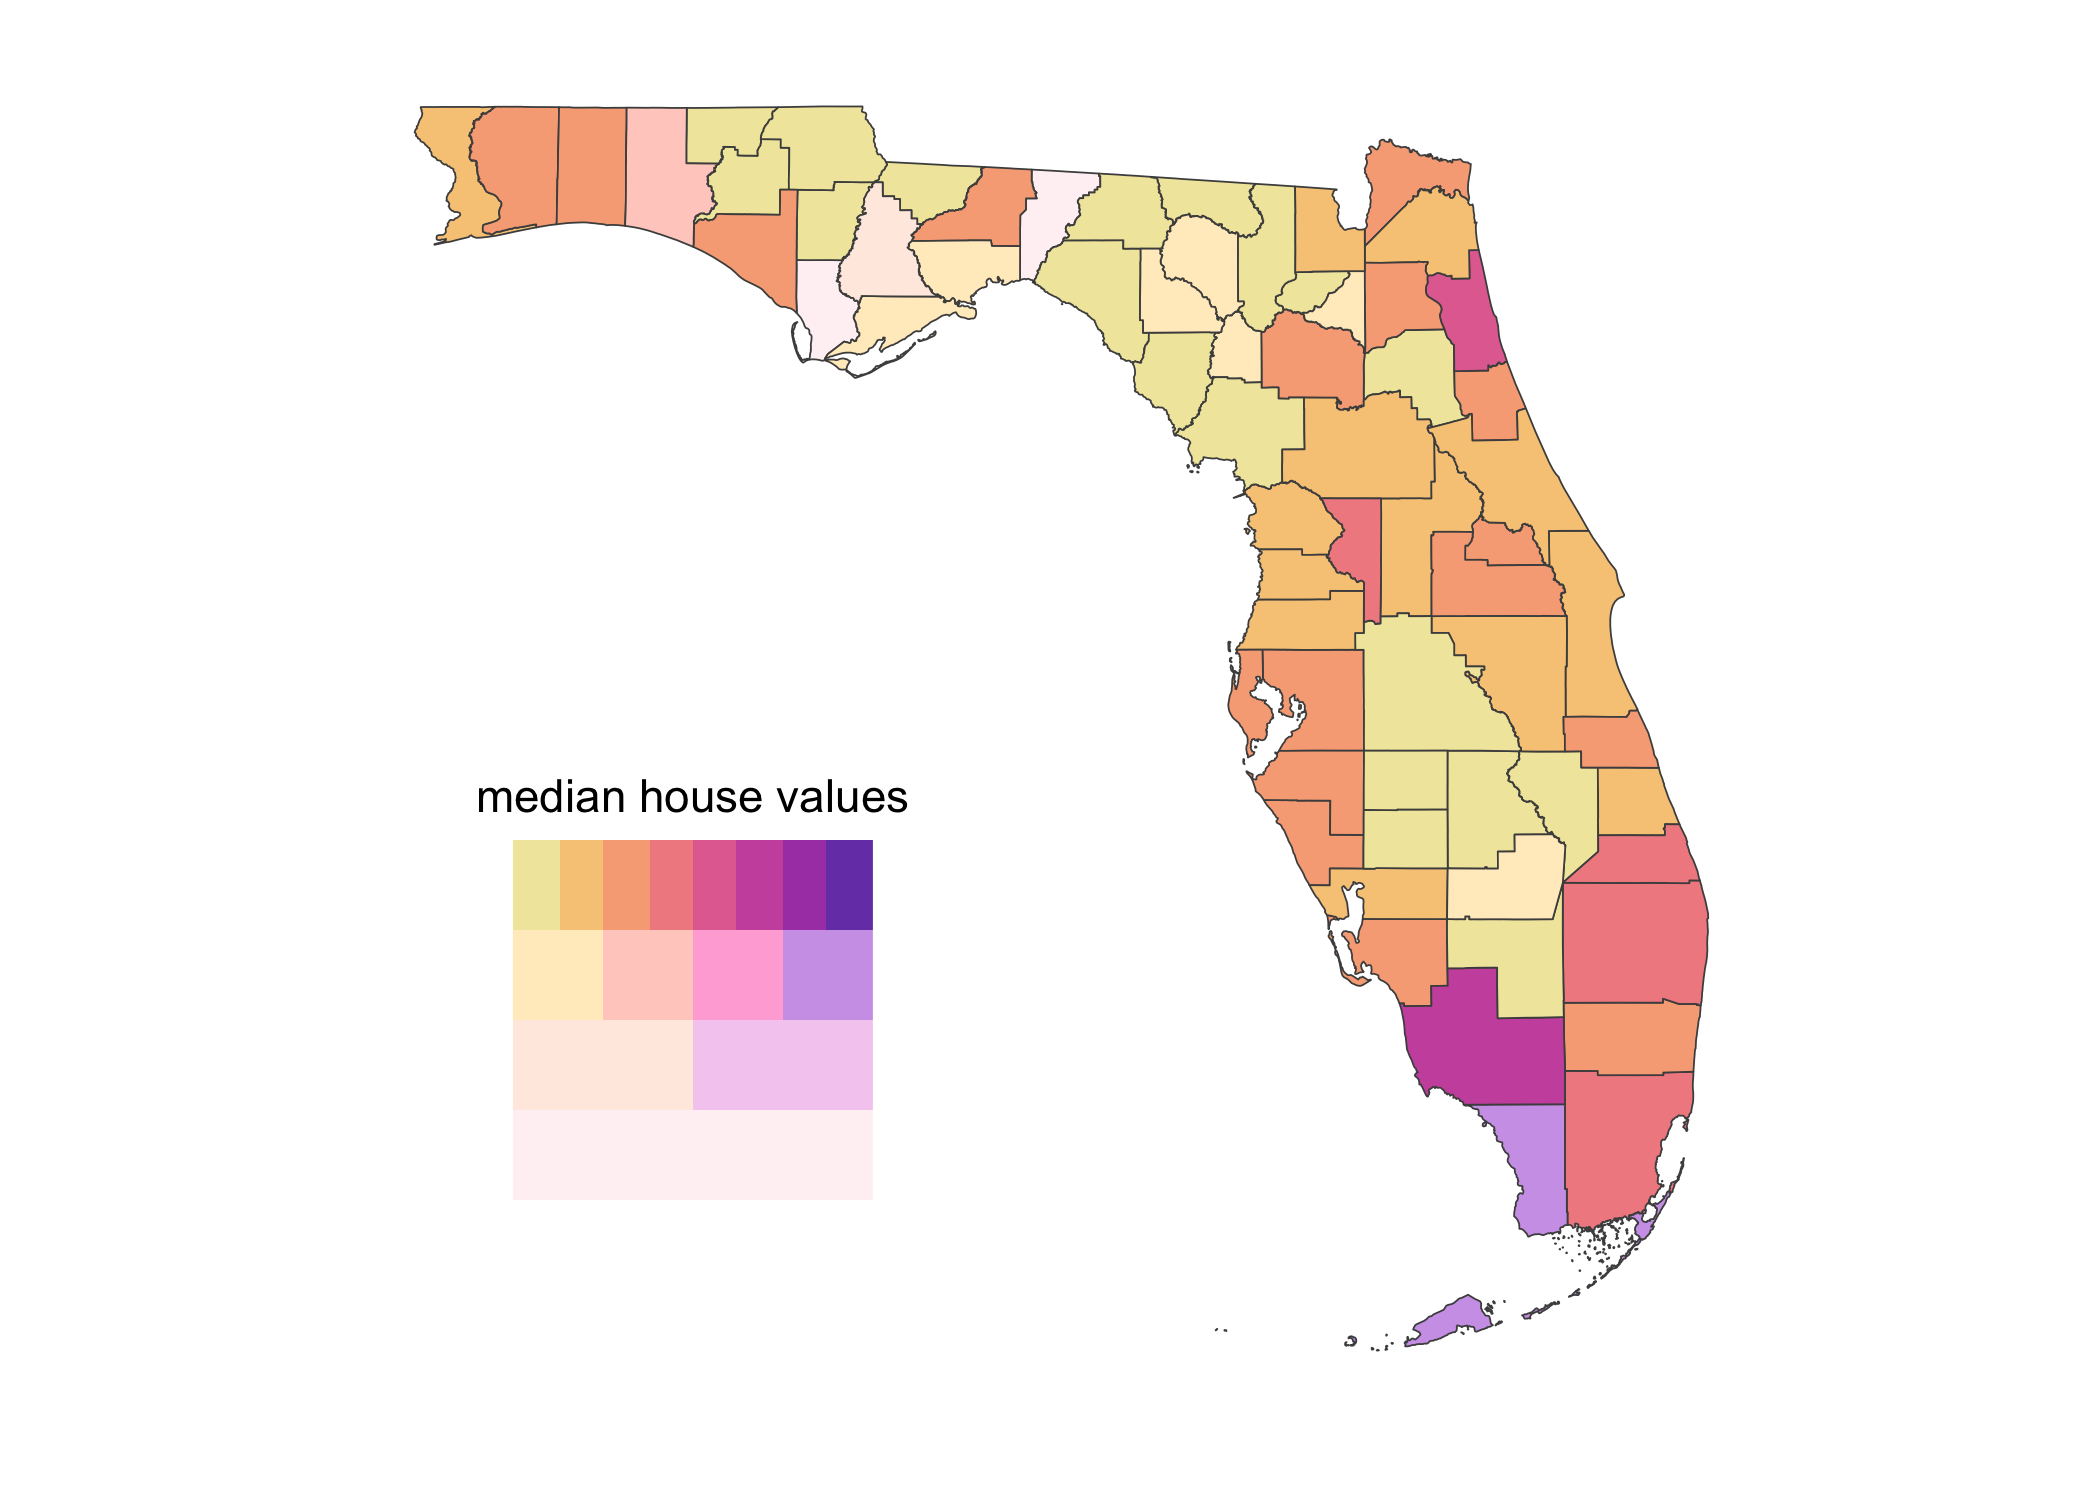
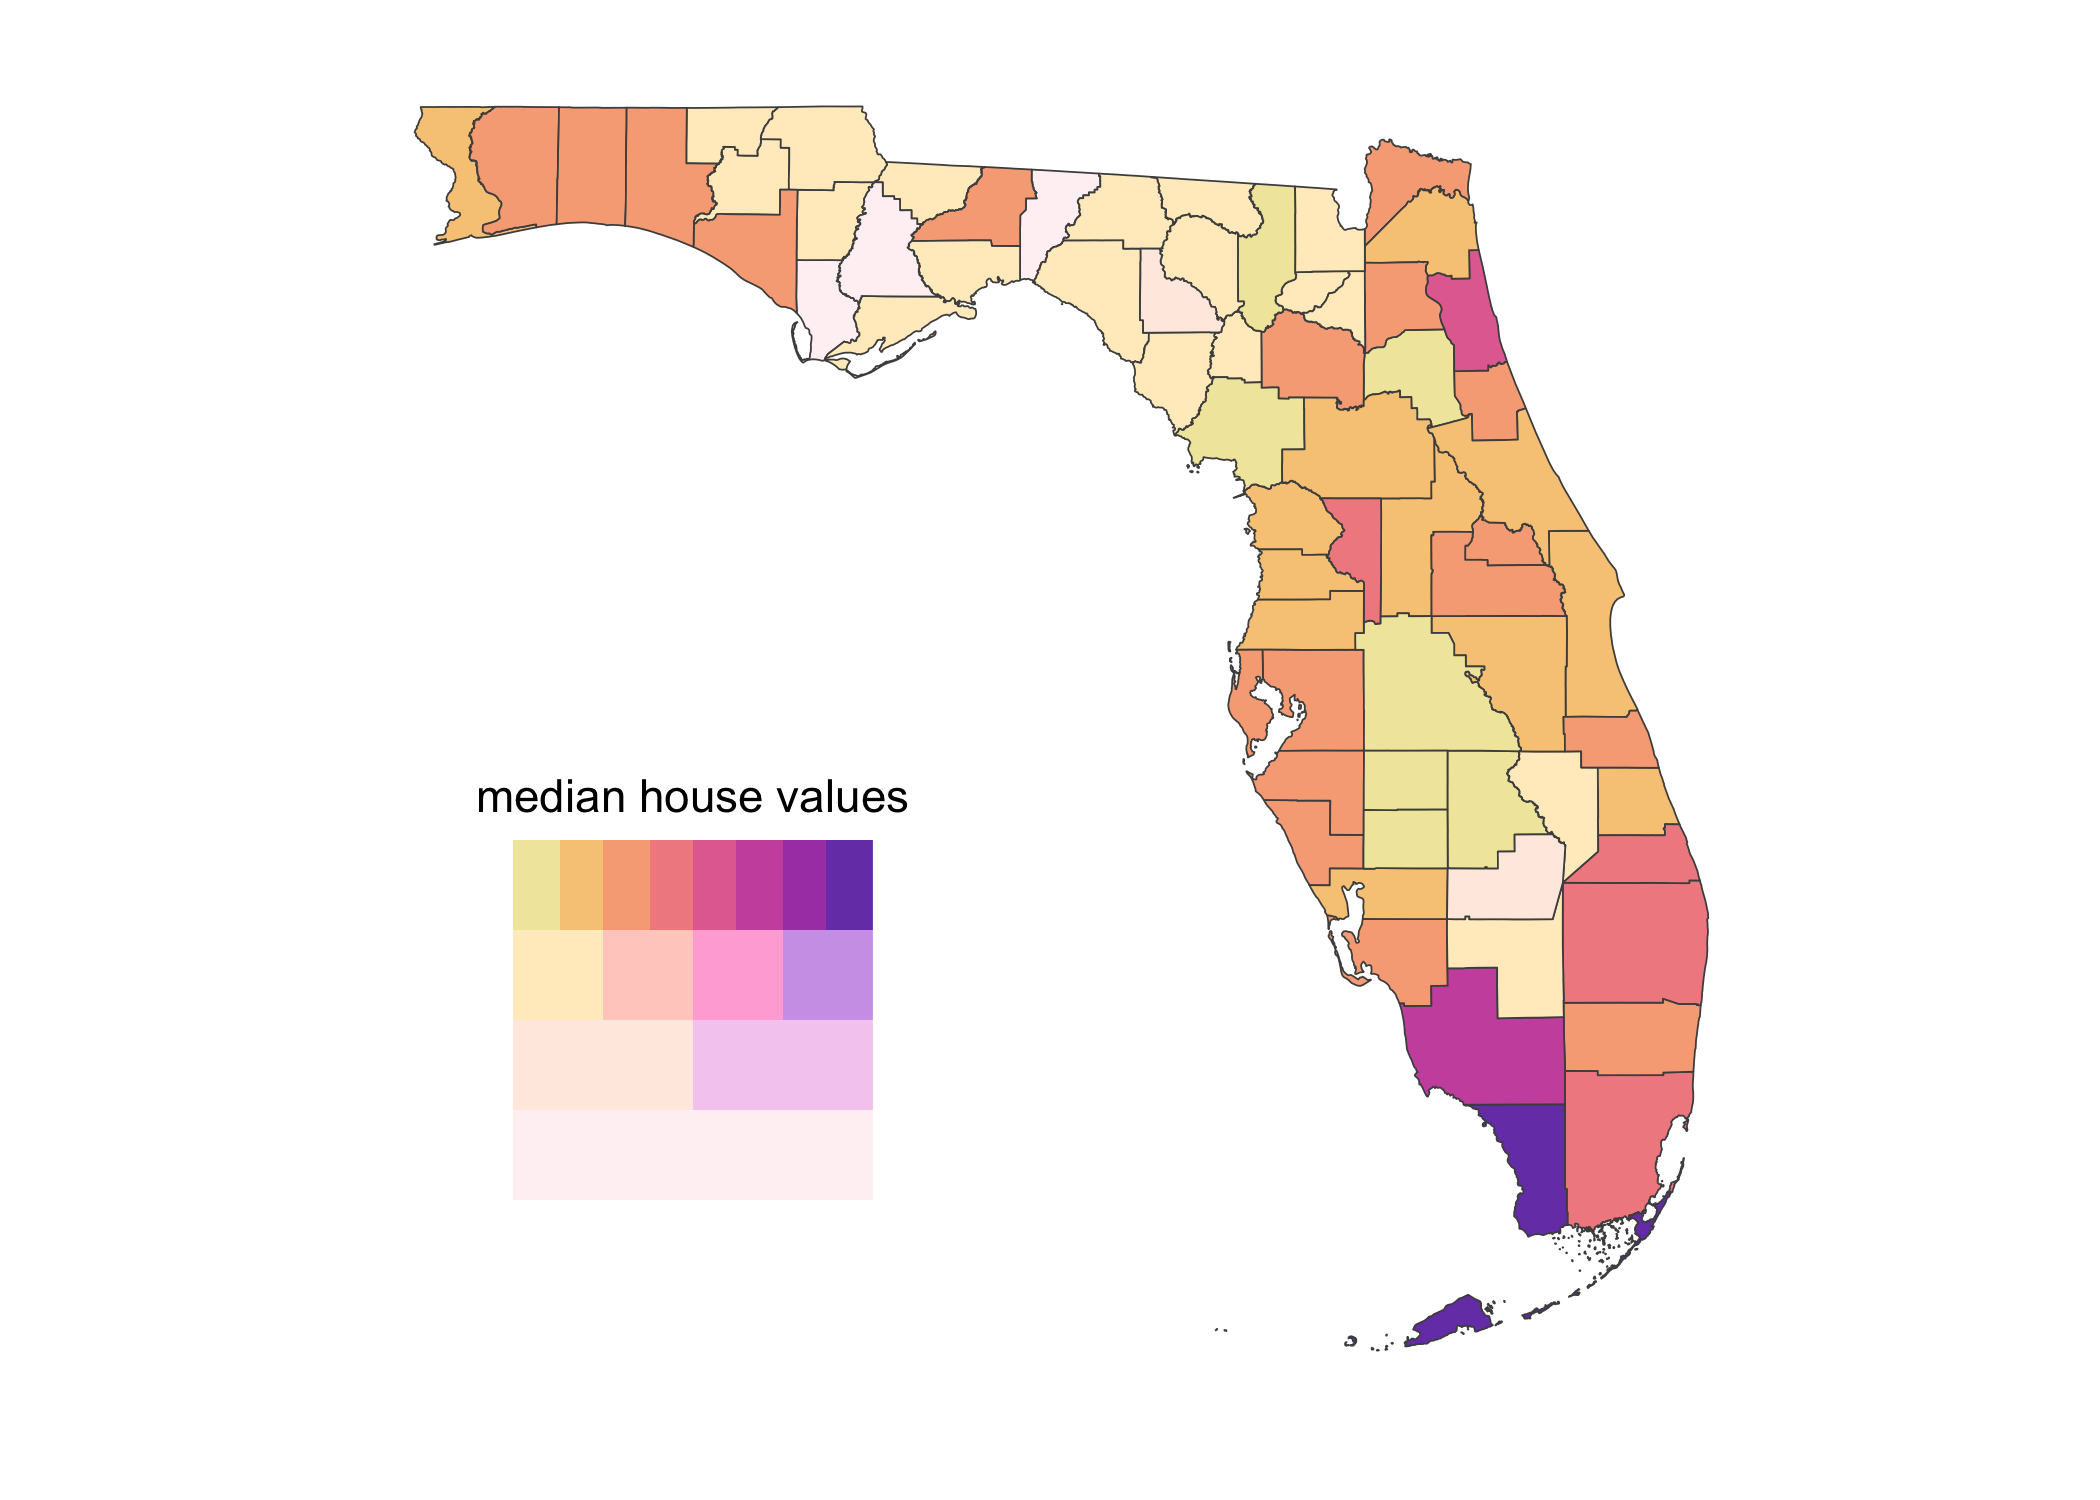
moe should be scaled by estimate for relative uncertainty

diff --git a/README.md b/README.md
@@ -27,7 +27,7 @@ library(ggplot2)
 library(multiscales)
 library(colorspace)
 
-ggplot(FL_house_values, aes(fill = zip(estimate, moe))) +
+ggplot(FL_house_values, aes(fill = zip(estimate, moe/estimate))) +
   geom_sf(color = "gray30", size = 0.2) +
   coord_sf(xlim = c(-88, -79.8), ylim = c(24.1, 31.2), datum = NA) +
   bivariate_scale(
